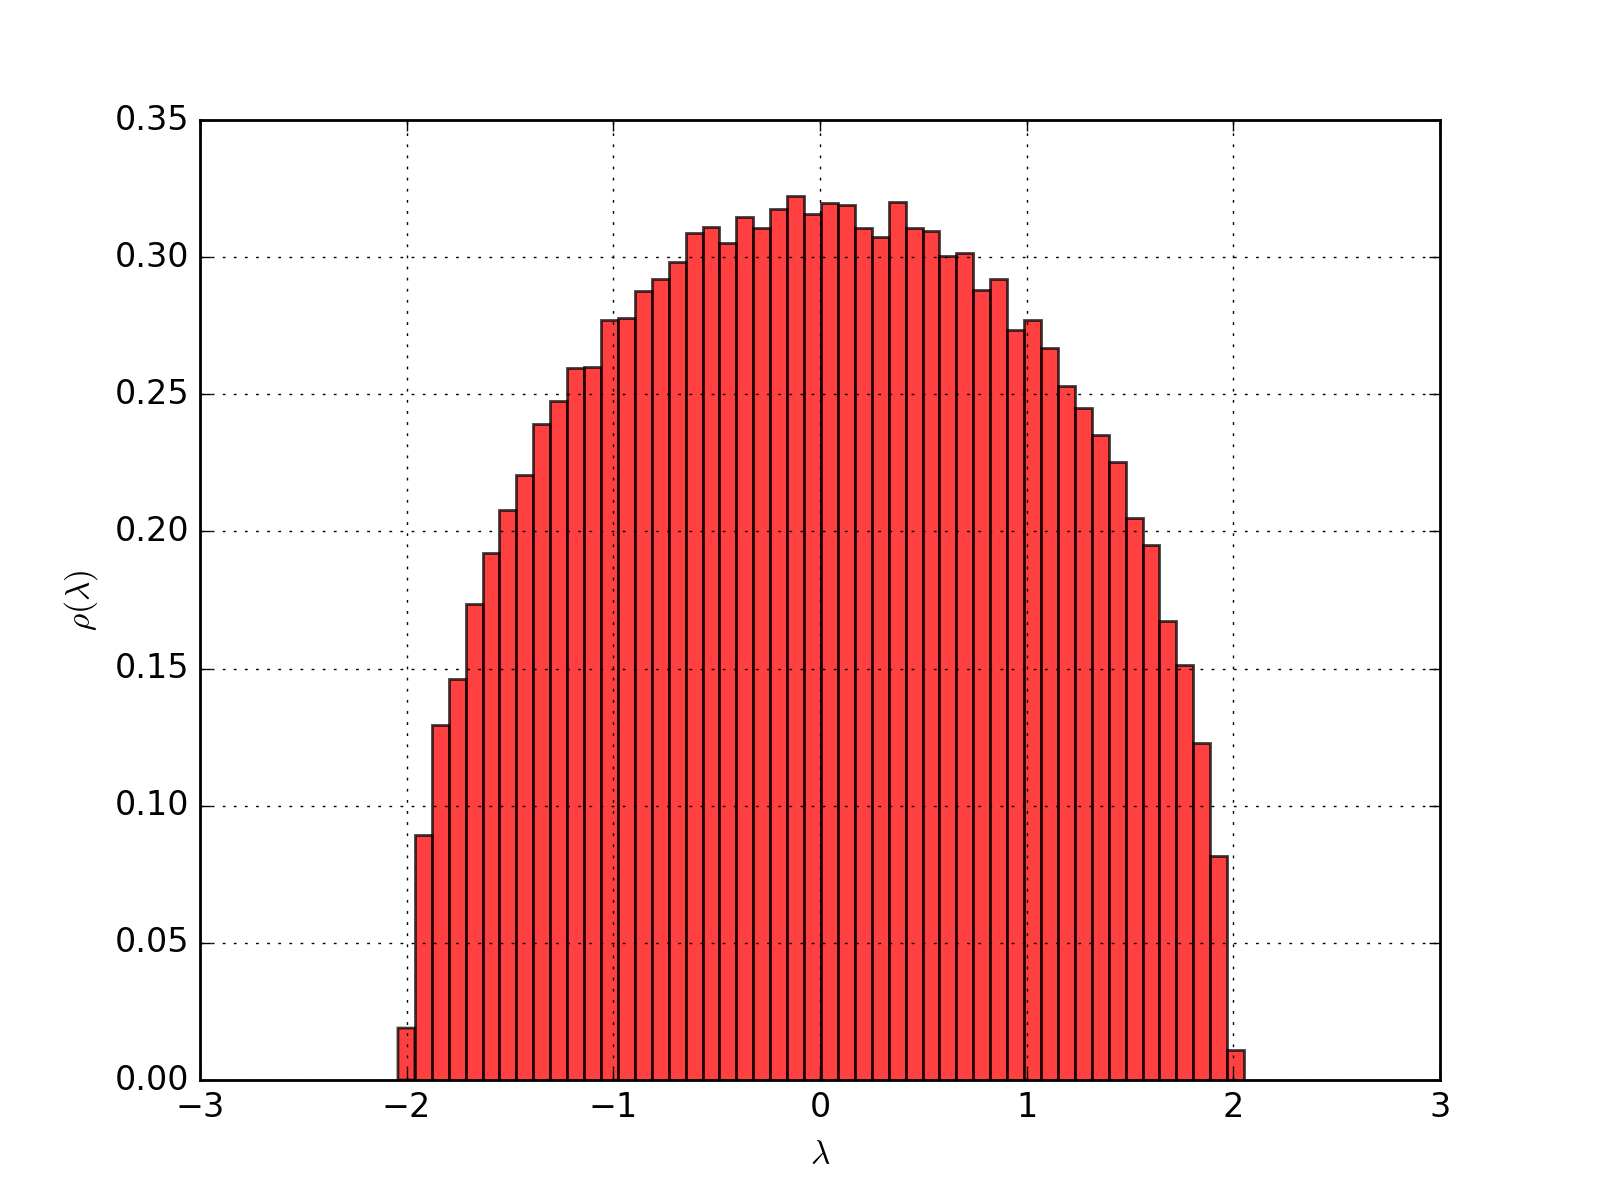
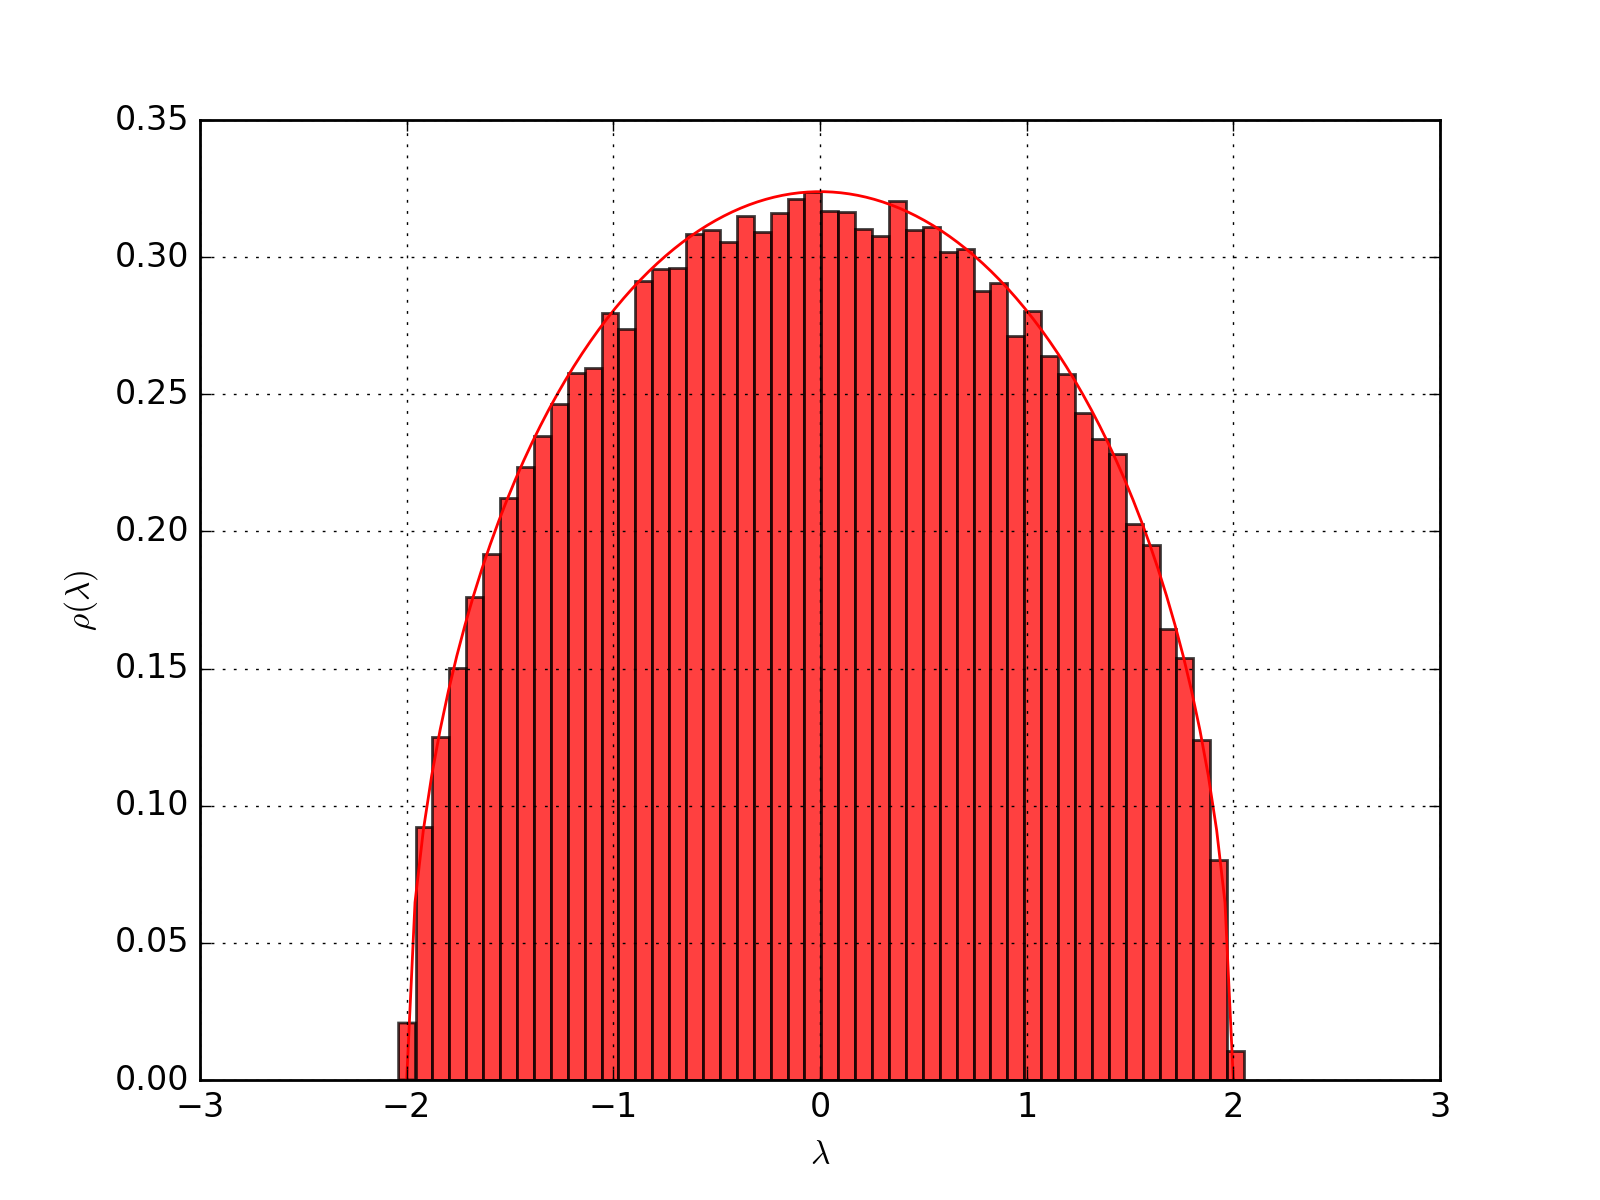
Fix error in lab4

diff --git a/scripts/lab4.py b/scripts/lab4.py
@@ -13,36 +13,45 @@ def getGUE(size):
         1j*np.random.normal(0., 1., (size, size)))
     return 0.5*(a + a.getH())
 
-def plotHist(data, xLabel, yLabel, fileName, color):
+def plotRhoHist(data, xLabel, yLabel, fileName, color):
     plt.xlabel(xLabel)
     plt.ylabel(yLabel)
-    n, bins, patches = plt.hist(data, 50, normed = 1,
+    n, bins, patches = plt.hist(data, 50, normed = True,
         facecolor = color, alpha = 0.75)
+
+    c = np.amax(n) / 2.
+    f = np.vectorize(lambda x: c*np.sqrt(4. - x**2))
+    lGrid = np.linspace(-2., 2., 100)
+    plt.plot(lGrid, f(lGrid), color[0] + '-')
+
     plt.grid()
     plt.savefig(fileName, format = 'png', dpi = 200)
     plt.clf()
+
+def plotHist():
+    pass
 
 def main():
 
     np.random.seed(10)
 
     size = 100
-    nImpls = 100
+    nImpls = 300
     nBins = 100
 
     goeEigens = []
     gueEigens = []
 
     for i in range(nImpls):
-        goeEigens.append(np.sort(np.linalg.eig(getGOE(size))[0]))
-        gueEigens.append(np.sort(np.real(np.linalg.eig(getGUE(size))[0])))
+        goeEigens.append(np.linalg.eigvalsh(getGOE(size)))
+        gueEigens.append(np.real(np.linalg.eigvalsh(getGUE(size))))
 
     goeAllEigens = np.array(goeEigens).reshape(nImpls*size)
     gueAllEigens = np.array(gueEigens).reshape(nImpls*size)
 
-    plotHist(goeAllEigens / np.sqrt(size), r'$\lambda$', r'$\rho(\lambda)$',
+    plotRhoHist(goeAllEigens / np.sqrt(size), r'$\lambda$', r'$\rho(\lambda)$',
         '../pictures/lab4_goe_eig_hist.png', 'green')
-    plotHist(gueAllEigens / np.sqrt(size), r'$\lambda$', r'$\rho(\lambda)$',
+    plotRhoHist(gueAllEigens / np.sqrt(size), r'$\lambda$', r'$\rho(\lambda)$',
         '../pictures/lab4_gue_eig_hist.png', 'red')
 
     goeSplits = []
@@ -58,23 +67,36 @@ def main():
     goeSplits = np.array(goeSplits).reshape(nImpls*len(goeSplits[0]))
     gueSplits = np.array(gueSplits).reshape(nImpls*len(gueSplits[0]))
 
-    plt.xlabel('$s$')
-    plt.ylabel(r'$p(s)$')
-    n, bins, patches = plt.hist(goeSplits, 50, normed = 1,
+    plt.xlabel(r'$\bar{s}$')
+    plt.ylabel(r'$p(\bar{s})$')
+    n, bins, patches = plt.hist(goeSplits, 100, normed = True,
         facecolor = 'green', alpha = 0.75)
+
+    f = lambda x: x*np.exp(-np.pi / 4. * x**2)
+    c = np.amax(n) / f(2. / np.pi) #np.pi / 2.
+    f = np.vectorize(lambda x: c*x*np.exp(-np.pi / 4. * x**2))
+    sGrid = np.linspace(np.amin(bins), np.amax(bins), 200)
+    plt.plot(sGrid, f(sGrid), 'g-')
+
+    print(np.amax(n), f(2. / np.pi))
     plt.grid()
     plt.savefig('../pictures/lab4_goe_split_hist.png', format = 'png', dpi = 200)
     plt.clf()
 
-    plt.xlabel('$s$')
-    plt.ylabel(r'$p(s)$')
-    n, bins, patches = plt.hist(gueSplits, 50, normed = 1,
+    plt.xlabel(r'$\bar{s}$')
+    plt.ylabel(r'$p(\bar{s})$')
+    n, bins, patches = plt.hist(gueSplits, 100, normed = True,
         facecolor = 'red', alpha = 0.75)
+
+    f = lambda x: x**2*np.exp(-4. / np.pi * x**2)
+    c = np.amax(n) / f(np.sqrt(np.pi) / 2.) #32. / np.pi**2
+    f = np.vectorize(lambda x: c*x**2*np.exp(-4. /np.pi * x**2))
+    sGrid = np.linspace(np.amin(bins), np.amax(bins), 200)
+    plt.plot(sGrid, f(sGrid), 'r-')
+
     plt.grid()
     plt.savefig('../pictures/lab4_gue_split_hist.png', format = 'png', dpi = 200)
     plt.clf()
-
-#    print(np.amax(goeEigens), np.amin(goeEigens))
 
 if __name__ == '__main__':
     main()
